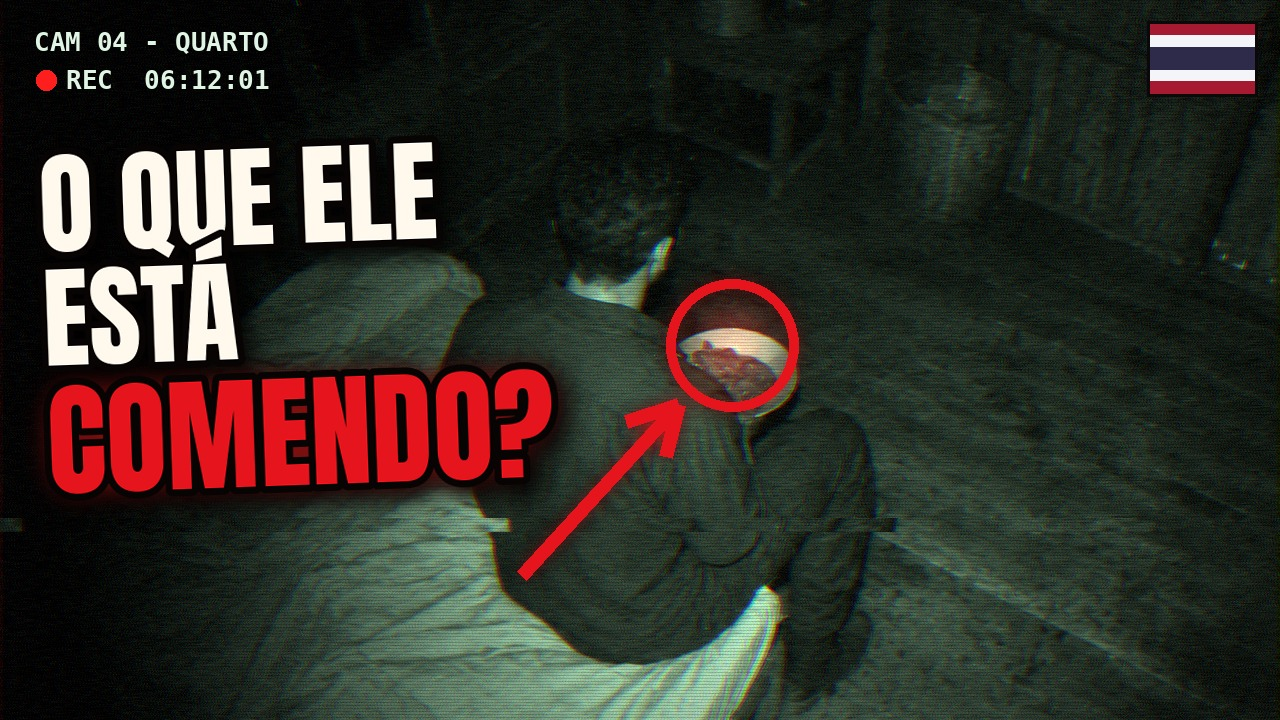
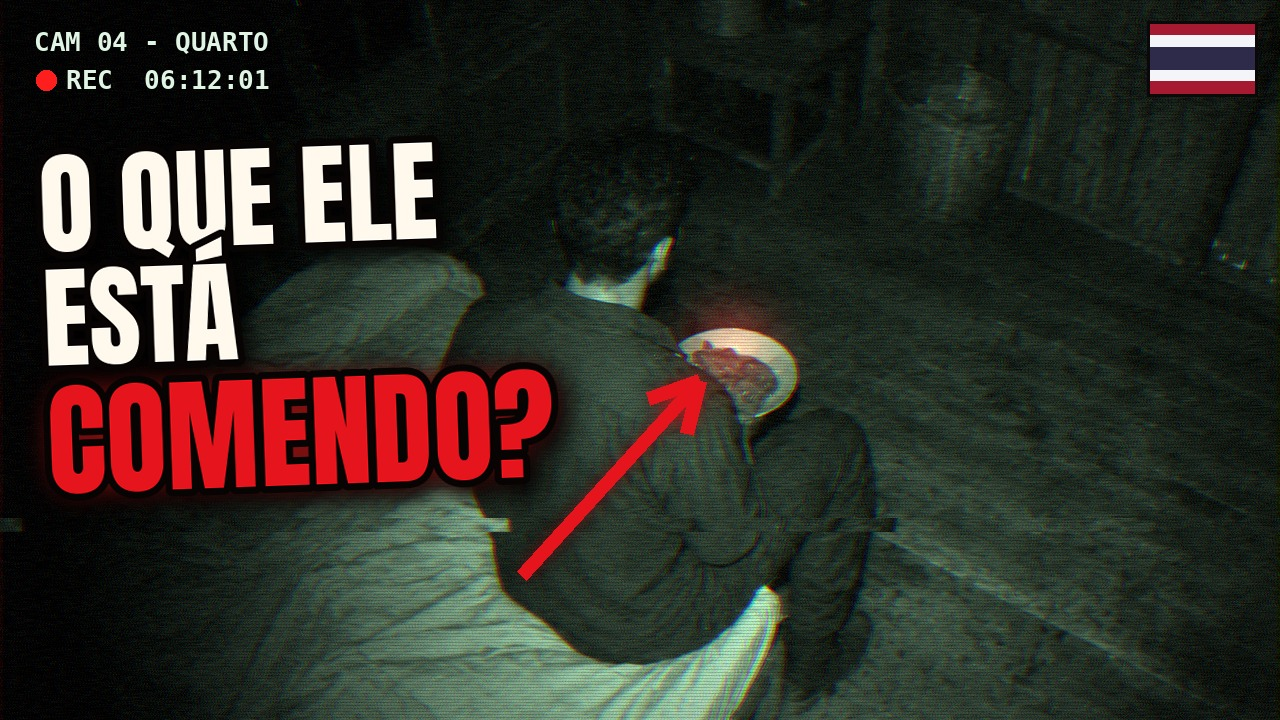
Ep10: capas sem o círculo (só a seta)
Claude-Session: https://claude.ai/code/session_01Mik5s9WJkfvsyjJAMyZLER

Changed region(s): [[0.4688, 0.3667, 0.625, 0.6417]]

diff --git a/video/episodios/ep10-tailandia/publicacao/gerar_capas_v2.py b/video/episodios/ep10-tailandia/publicacao/gerar_capas_v2.py
@@ -17,6 +17,7 @@ W, H = 1280, 720
 VERM = (230, 20, 28)
 BRANCO = (255, 248, 236)
 rng = np.random.default_rng(10)
+COM_CIRCULO = False
 
 
 def abrir(cod, cx, cy, zoom):
@@ -79,7 +80,10 @@ def brilho_vermelho(img, cx, cy, r, forca=0.9):
 
 def circulo_seta(base, cx, cy, r, de):
     cam = Image.new("RGBA", base.size, (0, 0, 0, 0)); d = ImageDraw.Draw(cam)
-    d.ellipse((cx - r, cy - r, cx + r, cy + r), outline=VERM + (255,), width=10)
+    if not COM_CIRCULO:
+        r = min(r, 34)   # sem círculo, a seta chega quase encostando no alvo
+    if COM_CIRCULO:   # 16/11: o usuário pediu para tirar o círculo — fica só a seta apontando
+        d.ellipse((cx - r, cy - r, cx + r, cy + r), outline=VERM + (255,), width=10)
     # seta: do ponto "de" até a borda do círculo
     ang = math.atan2(cy - de[1], cx - de[0]); px, py = cx - math.cos(ang) * (r + 14), cy - math.sin(ang) * (r + 14)
     d.line((de[0], de[1], px, py), fill=VERM + (255,), width=14)
@@ -184,5 +188,5 @@ capa_cctv("C4_02_variacao_2", 0.5, 0.42, 1.35, (0.76, 0.27), 76, (250, 190), ["E
 # I — parada de costas diante da porta, no corredor (G03)
 capa_cctv("G03_variacao_2", 0.38, 0.5, 1.35, (0.47, 0.37), 80, (230, 230), ["NÃO ABRA", "A PORTA"], [BRANCO, VERM],
           [140, 160], (36, 150), "CAM 01 - CORREDOR", "03:17:40", "capa_I_porta.jpg")
-capa_cctv("G03_variacao_1", 0.5, 0.45, 1.35, (0.63, 0.33), 80, (220, 230), ["ELA ESTÁ", "ESPERANDO"], [BRANCO, VERM],
+capa_cctv("G03_variacao_1", 0.5, 0.45, 1.35, (0.575, 0.36), 80, (220, 230), ["ELA ESTÁ", "ESPERANDO"], [BRANCO, VERM],
           [132, 150], (36, 150), "CAM 01 - CORREDOR", "02:40:18", "capa_I2_espera.jpg", luz=1.4)
